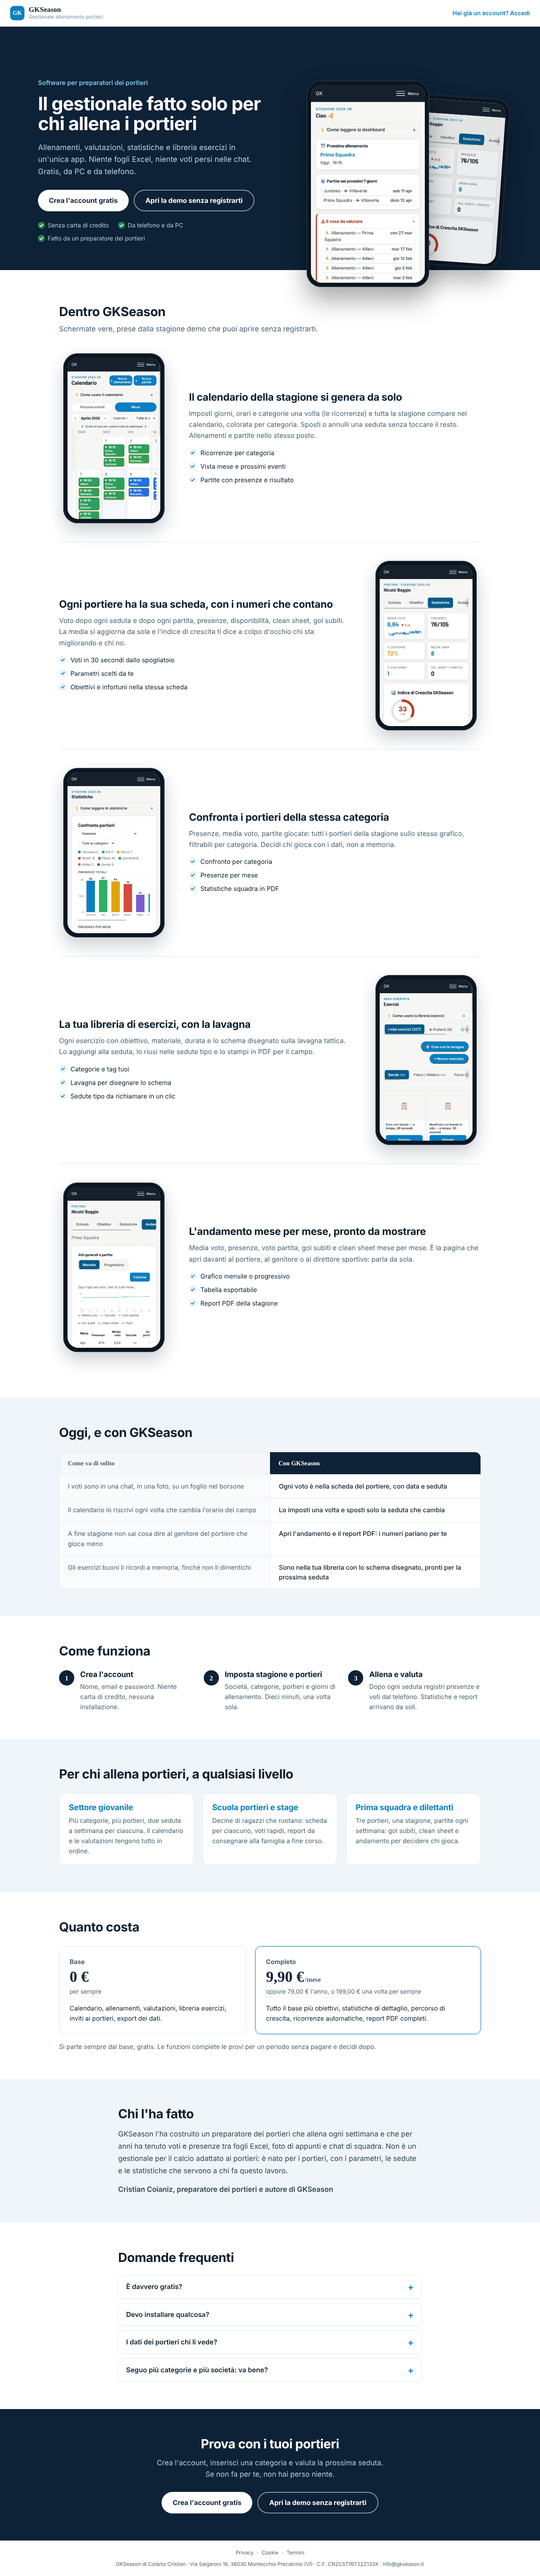
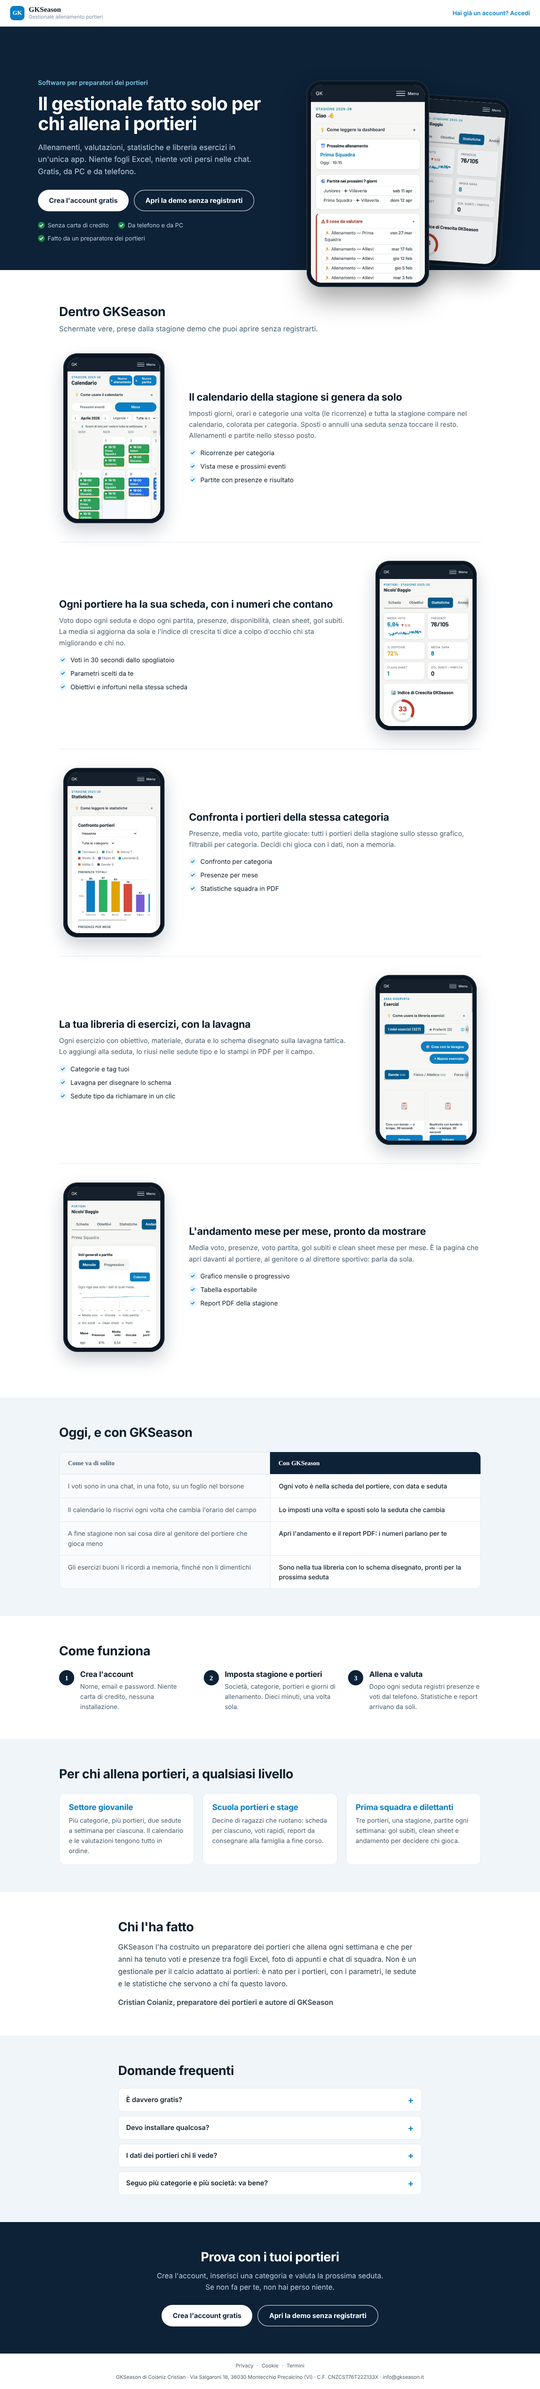
fix campagna 1

diff --git a/app/[locale]/lp/[slug]/page.js b/app/[locale]/lp/[slug]/page.js
@@ -1,6 +1,5 @@
 import { notFound } from 'next/navigation'
 import { setRequestLocale } from 'next-intl/server'
-import { createClient as createPublicClient } from '@supabase/supabase-js'
 import { Link } from '@/i18n/routing'
 import LegalFooter from '@/app/components/LegalFooter'
 import { LANDING, SLUGS, PASSI, PRIMA_DOPO, PER_CHI, TOUR, SCHERMATE } from '@/lib/landingAds'
@@ -14,9 +13,9 @@ import './lp.css'
  * registrarsi o aprire la demo. Tutto il resto lo distrae.
  *
  * Le immagini sono screenshot veri dell'app presi dalla stagione demo da
- * telefono (public/lp/*.webp). I prezzi vengono dal database come in home
- * (funzionalita_config), con gli stessi valori di riserva; la pagina viene
- * rigenerata al massimo ogni ora.
+ * telefono (public/lp/*.webp). Niente prezzi, per scelta: chi arriva da un
+ * annuncio li scopre dentro l'app. La pagina e' completamente statica
+ * (generata al build, nessuna lettura dal database).
  *
  * Slug sconosciuti -> notFound() -> 404 (volutamente NON dynamicParams=false:
  * con il rewrite della lingua di next-intl quella strada restituisce la
@@ -26,10 +25,6 @@ import './lp.css'
  * su tutte le pagine; AttribuzioneUtm salva utm/gclid al primo atterraggio,
  * cosi' la registrazione resta attribuita all'annuncio.
  */
-export const revalidate = 3600
-
-const DEFAULT_PREZZI = { mensile: '9.90', annuale: '79.00', lifetime: '199.00' }
-
 export function generateStaticParams() {
   return SLUGS.map((slug) => ({ slug }))
 }
@@ -48,27 +43,11 @@ export async function generateMetadata({ params }) {
   }
 }
 
-async function leggiPrezzi() {
-  const prezzi = { ...DEFAULT_PREZZI }
-  try {
-    const supabase = createPublicClient(process.env.NEXT_PUBLIC_SUPABASE_URL, process.env.NEXT_PUBLIC_SUPABASE_ANON_KEY)
-    const { data } = await supabase.from('funzionalita_config').select('chiave, label').like('chiave', 'prezzo_allenatore_%')
-    for (const r of (data ?? [])) {
-      const m = r.chiave.match(/^prezzo_allenatore_(mensile|annuale|lifetime)$/)
-      if (m && r.label) prezzi[m[1]] = r.label
-    }
-  } catch {}
-  return prezzi
-}
-
-const euro = (v) => String(v).replace('.', ',')
-
 export default async function LandingAnnunci({ params }) {
   const { locale, slug } = await params
   setRequestLocale(locale)
   const c = LANDING[slug]
   if (!c) notFound()
-  const prezzi = await leggiPrezzi()
 
   const registrati = { pathname: '/registrati', query: { ruolo: 'allenatore' } }
   const hero = SCHERMATE[c.heroSchermata]
@@ -184,30 +163,8 @@ export default async function LandingAnnunci({ params }) {
         </div>
       </section>
 
-      {/* ── Prezzi ── */}
-      <section className="lp-sezione">
-        <div className="lp-inner lp-prezzi">
-          <h2>Quanto costa</h2>
-          <div className="lp-prezzi-griglia">
-            <div className="lp-prezzo">
-              <span className="lp-prezzo-nome">Base</span>
-              <span className="lp-prezzo-cifra">0 €</span>
-              <span className="lp-prezzo-nota">per sempre</span>
-              <p>Calendario, allenamenti, valutazioni, libreria esercizi, inviti ai portieri, export dei dati.</p>
-            </div>
-            <div className="lp-prezzo lp-prezzo-pieno">
-              <span className="lp-prezzo-nome">Completo</span>
-              <span className="lp-prezzo-cifra">{euro(prezzi.mensile)} €<small>/mese</small></span>
-              <span className="lp-prezzo-nota">oppure {euro(prezzi.annuale)} € l&apos;anno, o {euro(prezzi.lifetime)} € una volta per sempre</span>
-              <p>Tutto il base più obiettivi, statistiche di dettaglio, percorso di crescita, ricorrenze automatiche, report PDF completi.</p>
-            </div>
-          </div>
-          <p className="lp-prezzi-piede">Si parte sempre dal base, gratis. Le funzioni complete le provi per un periodo senza pagare e decidi dopo.</p>
-        </div>
-      </section>
-
       {/* ── Chi l'ha fatto ── */}
-      <section className="lp-sezione lp-sezione-alt">
+      <section className="lp-sezione">
         <div className="lp-inner lp-autore">
           <h2>Chi l&apos;ha fatto</h2>
           <p>
@@ -221,7 +178,7 @@ export default async function LandingAnnunci({ params }) {
       </section>
 
       {/* ── FAQ ── */}
-      <section className="lp-sezione">
+      <section className="lp-sezione lp-sezione-alt">
         <div className="lp-inner lp-faq">
           <h2>Domande frequenti</h2>
           {c.faq.map((f) => (

diff --git a/app/[locale]/lp/[slug]/lp.css b/app/[locale]/lp/[slug]/lp.css
@@ -136,17 +136,6 @@
 .lp-perchi-voce h3 { font-size: 19px; margin-bottom: 8px; color: var(--lp-azzurro); }
 .lp-perchi-voce p { font-size: 15px; line-height: 1.6; color: var(--lp-grigio); }
 
-/* Prezzi */
-.lp-prezzi-griglia { display: grid; grid-template-columns: 1fr 1.2fr; gap: 20px; margin-top: 28px; }
-.lp-prezzo { border: 1px solid var(--lp-linea); border-radius: 14px; padding: 24px; display: flex; flex-direction: column; gap: 4px; }
-.lp-prezzo-pieno { border-color: var(--lp-azzurro); box-shadow: 0 0 0 3px #e6f3fb; }
-.lp-prezzo-nome { font-weight: 700; font-size: 15px; color: var(--lp-grigio); }
-.lp-prezzo-cifra { font-family: var(--font-display); font-weight: 700; font-size: 36px; line-height: 1.1; color: var(--lp-notte); }
-.lp-prezzo-cifra small { font-size: 16px; font-weight: 600; color: var(--lp-grigio); margin-left: 2px; }
-.lp-prezzo-nota { font-size: 14px; color: var(--lp-grigio); }
-.lp-prezzo p { font-size: 15px; line-height: 1.6; margin-top: 12px; color: var(--lp-inchiostro); }
-.lp-prezzi-piede { font-size: 15px; color: var(--lp-grigio); margin-top: 18px; }
-
 .lp-autore { max-width: 720px; }
 .lp-autore p { font-size: 17px; line-height: 1.7; color: #2f4552; margin-top: 16px; }
 .lp-firma { font-size: 15px; font-weight: 600; color: var(--lp-notte); }
@@ -176,7 +165,7 @@
   .lp-tappa, .lp-tappa-inv { grid-template-columns: 1fr; gap: 24px; text-align: left; }
   .lp-tappa-inv .lp-tappa-img { order: 0; }
   .lp-tappa-img .lp-tel { width: 220px; }
-  .lp-passi, .lp-perchi, .lp-prezzi-griglia { grid-template-columns: 1fr; gap: 20px; }
+  .lp-passi, .lp-perchi { grid-template-columns: 1fr; gap: 20px; }
 }
 @media (max-width: 640px) {
   .lp-top { padding: 12px 16px; }

diff --git a/google-ads/CAMPAGNA-GOOGLE.md b/google-ads/CAMPAGNA-GOOGLE.md
@@ -5,16 +5,21 @@
 Fatto:
 - Tag Google creato: **AW-1012017816**. Origine dati "Tag Google" (non la proprietà Analytics COIANIZ, che è di ArtLink).
 - Azioni di conversione: **Registrazione** (principale, etichetta `LzXlCOTDxJsdEJjVyOID`, conteggio una, finestra 30 giorni) e **Demo aperta** (etichetta `Z08FCOfDxJsdEJjVyOID`, categoria Visualizzazione di pagina: non usata per le offerte finché nessuna campagna ha quell'obiettivo). Conversioni avanzate: **spente** (manderebbero le email degli utenti a Google).
-- Campagna **"Search - Preparatori portieri"** creata come bozza completa: obiettivo Registrazioni (Visualizzazioni di pagina rimosso dagli obiettivi della campagna), solo Rete di ricerca, Italia "presenza", italiano, Massimizza i clic con CPC max 1,50 €, budget 6 €/giorno, AI Max spento, suffisso UTM, **data di inizio 19 ottobre 2026**, gruppo "Software e app portieri" con 36 keyword + annuncio (15 titoli, titolo 1 bloccato, 4 descrizioni), 4 sitelink, 4 callout.
+- Campagna **"Search - Preparatori portieri"** (id 24345263472) **pubblicata da te il 13/10**: obiettivo Registrazioni (Visualizzazioni di pagina rimosso dagli obiettivi della campagna), solo Rete di ricerca, Italia "presenza", italiano, Massimizza i clic con CPC max 1,50 €, budget 7 €/giorno, AI Max spento, suffisso UTM, **inizio 19 ottobre 2026, fine 29 ottobre 2026**, 4 sitelink, 4 callout. Stato "In attesa" fino al 19/10.
+- 4 gruppi di annunci, ognuno con il suo annuncio adattabile (titolo 1 bloccato in posizione 1):
+  - **Software e app portieri** — 36 keyword → `/lp/software-portieri` (15 titoli, 4 descrizioni)
+  - **Programmazione allenamenti** — 46 keyword → `/lp/allenamenti-portieri` (15 titoli, 4 descrizioni)
+  - **Valutazione e statistiche** — 38 keyword → `/lp/valutazione-portieri` (15 titoli, 4 descrizioni)
+  - **Brand GKSeason** — 5 keyword esatte → home (8 titoli, 2 descrizioni)
+  Totale 125 keyword (verificato nella tabella Parole chiave). Tutti gli annunci "esaminati, nessun problema relativo alle norme".
+- **73 parole chiave escluse** a livello campagna, corrispondenza generica (verificato: "1-10 di 73").
 
 Da fare (nell'ordine):
-1. **Pubblica campagna** (lo fai tu: Google Ads chiede che il clic che spende sia dell'inserzionista). Non ricaricare la scheda prima: in questa procedura di Google le keyword e l'annuncio restano in memoria solo finché la scheda è aperta.
-2. Subito dopo: metti la campagna **in pausa** (tabella Campagne → interruttore) finché le landing non sono online. Con inizio il 19/10 non spende comunque prima.
-3. Aggiungere gli altri 3 gruppi di annunci (Programmazione allenamenti, Valutazione e statistiche, Brand GKSeason): testi in `04-keyword-da-incollare.txt`, oppure chiedi a Claude.
-4. Aggiungere le 73 parole chiave escluse a livello campagna (stesso file).
-5. Rinominare "Gruppo di annunci 1" in "Software e app portieri".
-6. Dopo il deploy delle landing con le variabili NEXT_PUBLIC_GADS_*: riattivare la campagna.
-7. **Entro il 27 ottobre: verifica dell'identità dell'inserzionista** (Google la chiede; dopo quella data blocca gli annunci finché non è fatta).
+1. **Deploy di questo pacchetto + variabili NEXT_PUBLIC_GADS_* su Vercel entro il 18 ottobre.** Dal 19 gli annunci mandano su `/lp/...`: senza deploy atterrano su una pagina 404 e paghi i clic lo stesso.
+2. **Entro il 27 ottobre: verifica dell'identità dell'inserzionista** (Google la chiede; dopo quella data blocca gli annunci finché non è fatta). La trovi in Google Ads → Fatturazione / Amministrazione → Verifica dell'inserzionista.
+3. Dal 20 ottobre: controlli della parte C qui sotto (termini di ricerca ogni 2-3 giorni, le prime escluse nuove).
+4. Facoltativo: il sitelink "Prezzi" (→ home#prezzi) è ancora tra gli asset della campagna. Se non vuoi che il prezzo compaia nemmeno nell'annuncio, va tolto da Asset → Sitelink.
+5. La campagna scade il 29/10: se i risultati sono buoni, togli la data di fine (Impostazioni campagna → Date) qualche giorno prima, altrimenti si ferma da sola.
 
 ---
 
